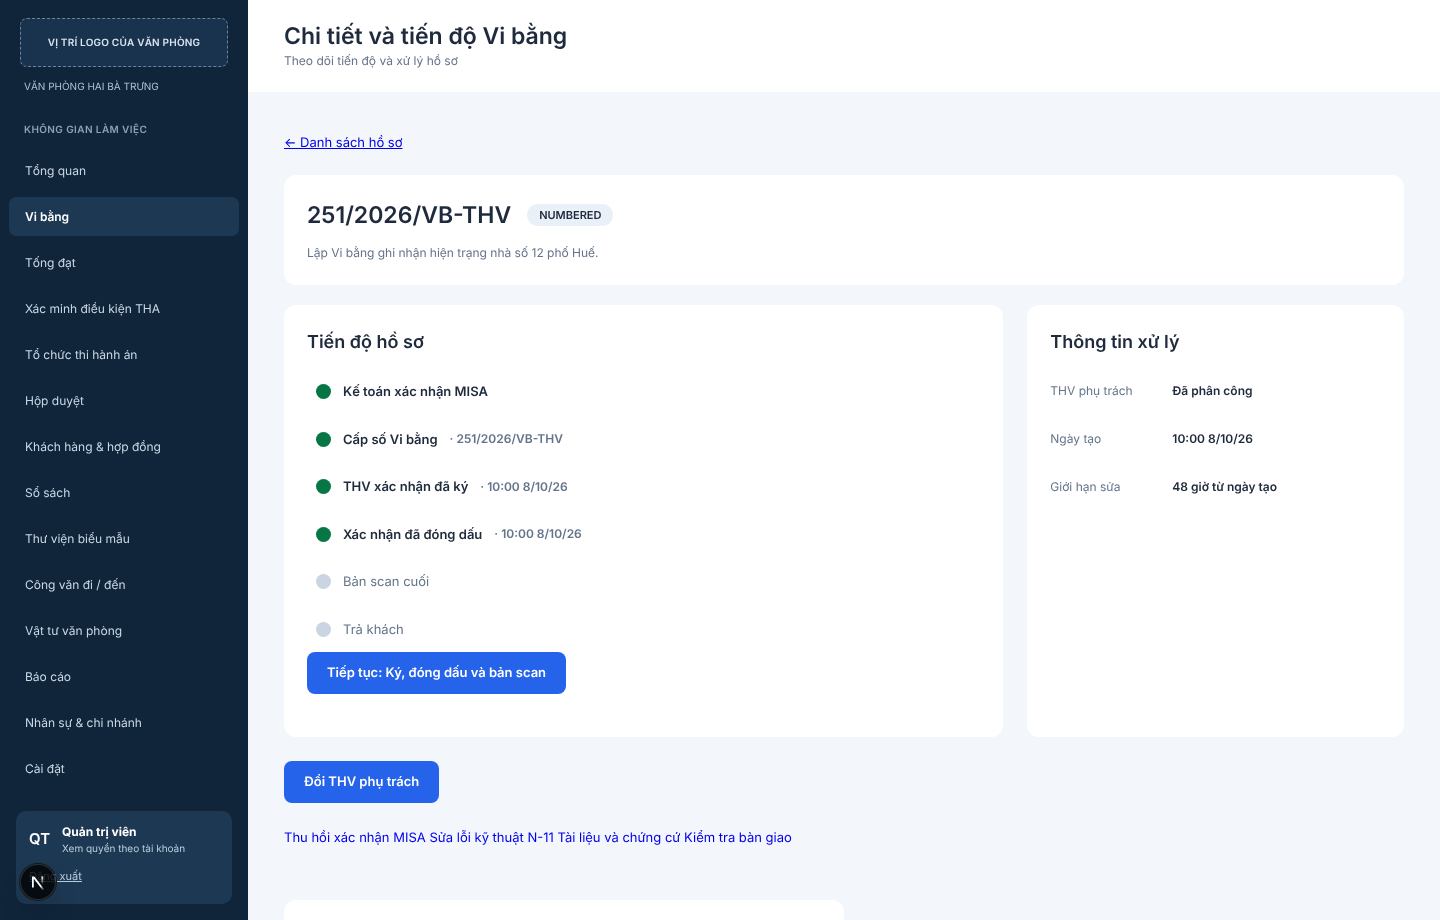
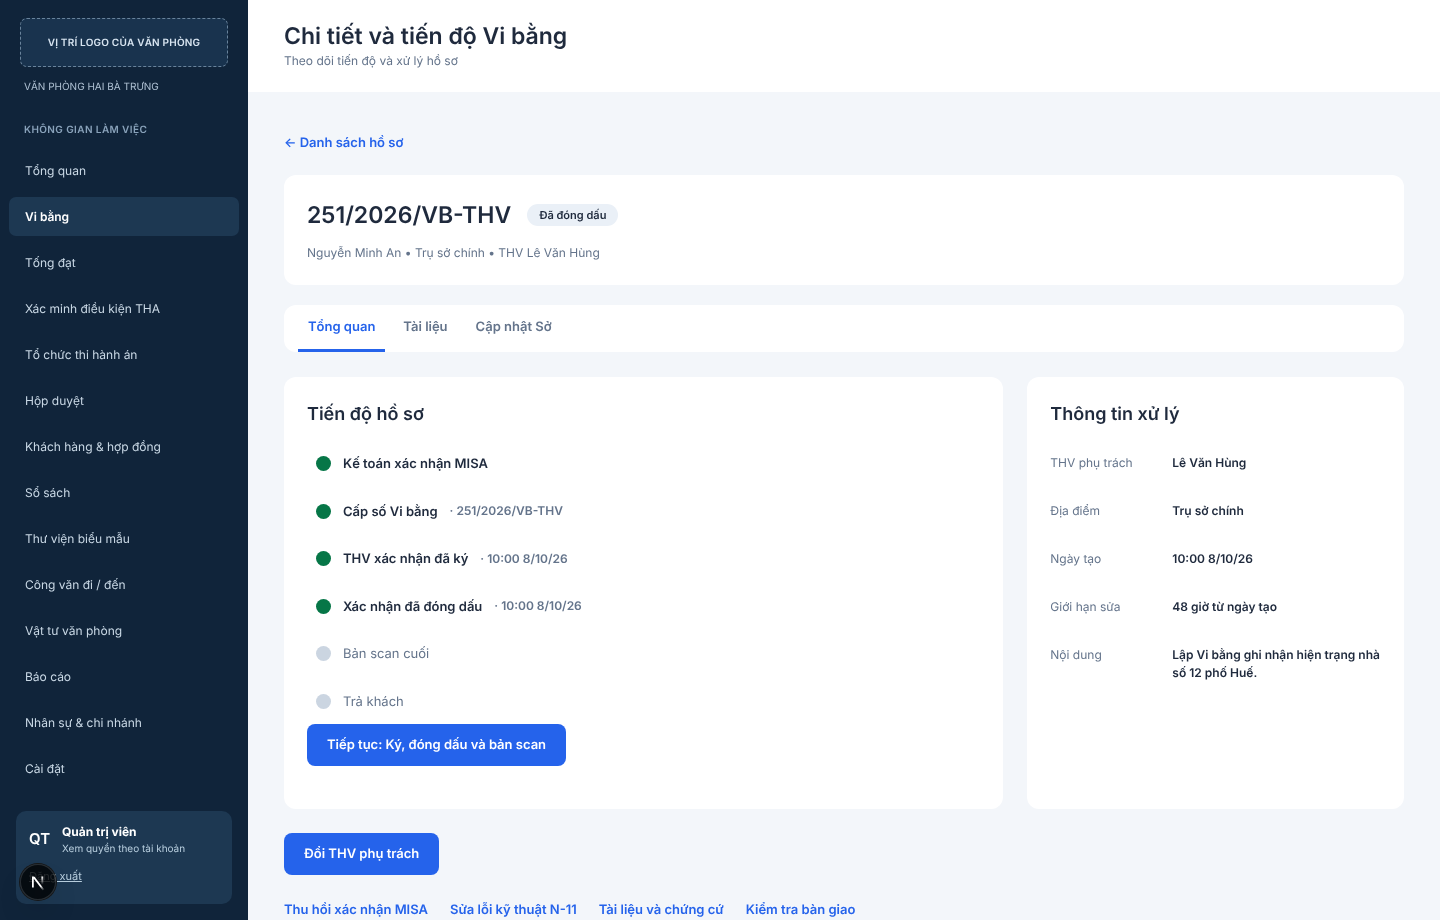
fix(web): khớp Figma chi tiết hồ sơ (thanh tab, địa điểm, khách), Sổ sách và Nhân sự
Claude-Session: https://claude.ai/code/session_01TuayhBfCeqvzC4WVhHb6qe

diff --git a/apps/web/app/vi-bang/[id]/page.tsx b/apps/web/app/vi-bang/[id]/page.tsx
@@ -73,10 +73,13 @@ export default async function CasePage({ params }: { params: Promise<{ id: strin
   );
   const isAdmin = session.roles.includes('ADMIN');
   const isFinal = c.status === 'RETURNED' || c.status === 'CANCELLED';
+  const meta = [c.customerName, c.branchName, c.thvLabel ? `THV ${c.thvLabel}` : null].filter(
+    (x): x is string => !!x,
+  );
   const windowOpen = Date.now() < new Date(c.createdAt).getTime() + WINDOW_MS;
   return (
     <section aria-labelledby="t">
-      <p>
+      <p className="case-back">
         <Link href="/vi-bang">← Danh sách hồ sơ</Link>
       </p>
       <header className="panel case-head">
@@ -86,8 +89,15 @@ export default async function CasePage({ params }: { params: Promise<{ id: strin
             {CASE_STATUS_LABEL[c.status] ?? c.status}
           </span>
         </div>
-        <p className="muted">{c.description || 'Chưa có nội dung ghi nhận.'}</p>
+        {meta.length > 0 ? <p className="muted">{meta.join(' • ')}</p> : null}
       </header>
+      {typeof progress === 'object' && progress.numberLabel ? (
+        <nav className="case-tabs" aria-label="Các mục của hồ sơ">
+          <span aria-current="page">Tổng quan</span>
+          <Link href={`/vi-bang/${c.id}/tai-lieu`}>Tài liệu</Link>
+          <Link href={`/vi-bang/${c.id}/cap-nhat-so`}>Cập nhật Sở</Link>
+        </nav>
+      ) : null}
       <div className="panels case-grid">
         {typeof progress === 'object' ? (
           <CaseSteps caseId={c.id} status={c.status} progress={progress} />
@@ -101,11 +111,19 @@ export default async function CasePage({ params }: { params: Promise<{ id: strin
           <h2 id="info-t">Thông tin xử lý</h2>
           <dl className="info">
             <dt>THV phụ trách</dt>
-            <dd>{c.responsibleThvUserId ? 'Đã phân công' : 'Chưa phân công'}</dd>
+            <dd>{c.thvLabel ?? (c.responsibleThvUserId ? 'Đã phân công' : 'Chưa phân công')}</dd>
+            {c.branchName ? (
+              <>
+                <dt>Địa điểm</dt>
+                <dd>{c.branchName}</dd>
+              </>
+            ) : null}
             <dt>Ngày tạo</dt>
             <dd>{fmt.format(new Date(c.createdAt))}</dd>
             <dt>Giới hạn sửa</dt>
             <dd>48 giờ từ ngày tạo</dd>
+            <dt>Nội dung</dt>
+            <dd>{c.description || 'Chưa có nội dung ghi nhận.'}</dd>
           </dl>
         </section>
       </div>
@@ -117,7 +135,7 @@ export default async function CasePage({ params }: { params: Promise<{ id: strin
         </p>
       ) : null}
       {typeof progress === 'object' && progress.numberLabel ? (
-        <p>
+        <p className="case-links">
           <Link className="btn-link" href={`/vi-bang/${c.id}/thu-hoi-misa`}>
             Thu hồi xác nhận MISA
           </Link>{' '}

diff --git a/apps/web/app/globals.css b/apps/web/app/globals.css
@@ -808,6 +808,24 @@ th a:hover {
 .stage-back {
   margin: 0 0 35px;
 }
+.stage-back a,
+.case-back a,
+.case-links a {
+  color: var(--accent);
+  font-size: 13px;
+  font-weight: 600;
+  text-decoration: none;
+}
+.stage-back a:hover,
+.case-back a:hover,
+.case-links a:hover {
+  text-decoration: underline;
+}
+.case-links {
+  display: flex;
+  flex-wrap: wrap;
+  gap: 6px 22px;
+}
 .stage-grid {
   margin-bottom: 24px;
 }
@@ -1017,7 +1035,7 @@ tr[data-selected='true'] > td {
   border-bottom: 1px solid var(--line);
 }
 .note-panel {
-  margin-top: 16px;
+  margin: 16px 0 24px;
   font-size: 15px;
 }
 .note-panel p {
@@ -1173,6 +1191,23 @@ tr[data-selected='true'] > td {
 
 .filters-ledger {
   grid-template-columns: 1fr;
+  padding-block: 10px;
+  margin: 26px 0 27px;
+}
+.filters-ledger + .table-wrap + .panel {
+  margin-top: 56px;
+}
+.ledger-link {
+  margin: 20px 0 0;
+}
+.ledger-link a {
+  color: var(--accent);
+  font-size: 13px;
+  font-weight: 600;
+  text-decoration: none;
+}
+.ledger-link a:hover {
+  text-decoration: underline;
 }
 @media (min-width: 900px) {
   .filters-ledger {
@@ -1248,4 +1283,32 @@ tr[data-selected='true'] > td {
 }
 .assign-grid > .panel > h2 {
   line-height: 22px;
+}
+
+/* Các mục của hồ sơ (Figma 3:582): thanh tab trắng, mục hiện tại gạch chân */
+.case-tabs {
+  display: flex;
+  gap: 8px;
+  min-height: 47px;
+  margin: 0 0 25px;
+  padding: 0 14px;
+  background: var(--surface);
+  border-radius: var(--radius);
+}
+.case-tabs > * {
+  display: inline-flex;
+  align-items: center;
+  padding: 0 10px;
+  font-size: 13px;
+  font-weight: 600;
+  color: var(--muted);
+  text-decoration: none;
+  border-bottom: 3px solid transparent;
+}
+.case-tabs > [aria-current='page'] {
+  color: var(--accent);
+  border-bottom-color: var(--accent);
+}
+.case-tabs > a:hover {
+  color: var(--ink);
 }

diff --git a/apps/web/app/so-sach/page.tsx b/apps/web/app/so-sach/page.tsx
@@ -87,19 +87,11 @@ export default async function LedgerPage({
       <div className="page-head">
         <div>
           <h1 id="t">{ledger === 'error' ? 'Sổ sách' : ledger.title}</h1>
-          <p className="muted">
-            Sổ theo Thông tư 08, dựng từ hồ sơ; không phải biểu mẫu chính thức.
-          </p>
         </div>
         {ledger !== 'error' ? (
           <ReportExport rows={table} filename={`${code}${year ? `-${year}` : ''}.csv`} />
         ) : null}
       </div>
-      <p>
-        <Link className="btn-link" href="/so-sach/theo-doi-so">
-          Theo dõi cập nhật CSDL / Sở
-        </Link>
-      </p>
       <form className="filters filters-ledger" method="get" role="search">
         <label>
           <span className="sr-only">Sổ</span>
@@ -172,6 +164,9 @@ export default async function LedgerPage({
           <p className="muted">{ledger.notice} Cột chưa có nguồn dữ liệu hiển thị “—”.</p>
         </aside>
       ) : null}
+      <p className="ledger-link">
+        <Link href="/so-sach/theo-doi-so">Theo dõi cập nhật CSDL / Sở →</Link>
+      </p>
     </section>
   );
 }

diff --git a/apps/web/app/quan-tri/page.tsx b/apps/web/app/quan-tri/page.tsx
@@ -199,7 +199,7 @@ export default async function AdminPage() {
           </table>
         </div>
       )}
-      <aside className="panel">
+      <aside className="panel note-panel">
         <p className="muted">
           Phân quyền theo vai trò, địa điểm và hồ sơ; quyền hành nghề pháp lý không thể thay bằng
           quyền Admin ứng dụng.

diff --git a/apps/web/lib/case-api.ts b/apps/web/lib/case-api.ts
@@ -7,6 +7,9 @@ export interface CaseDetail {
   readonly status: string;
   readonly createdAt: string;
   readonly responsibleThvUserId: string | null;
+  readonly branchName?: string | null;
+  readonly customerName?: string | null;
+  readonly thvLabel?: string | null;
   readonly handoverRecipient?: string | null;
   readonly handoverOn?: string | null;
 }
